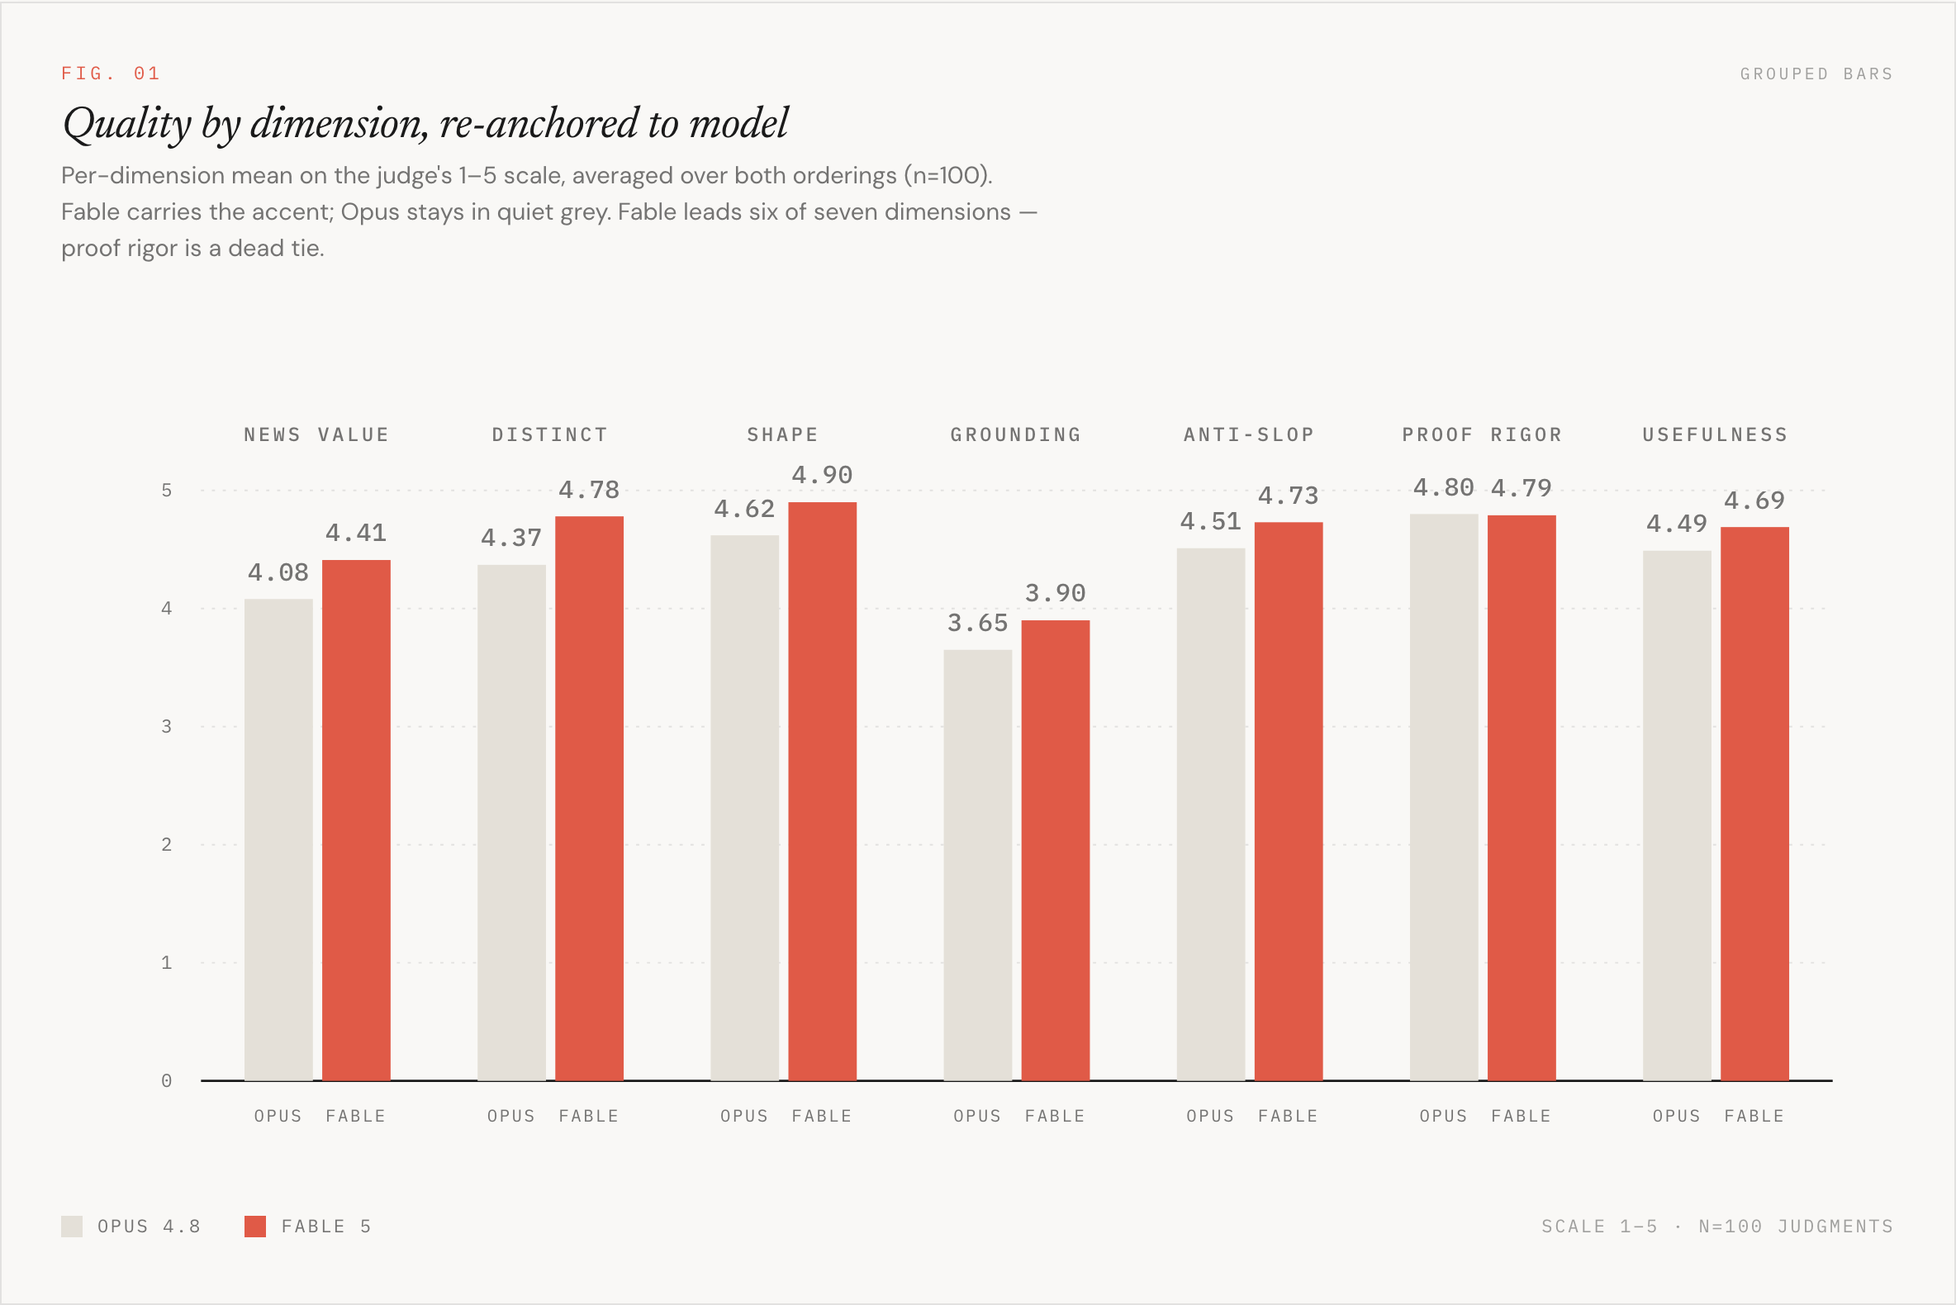
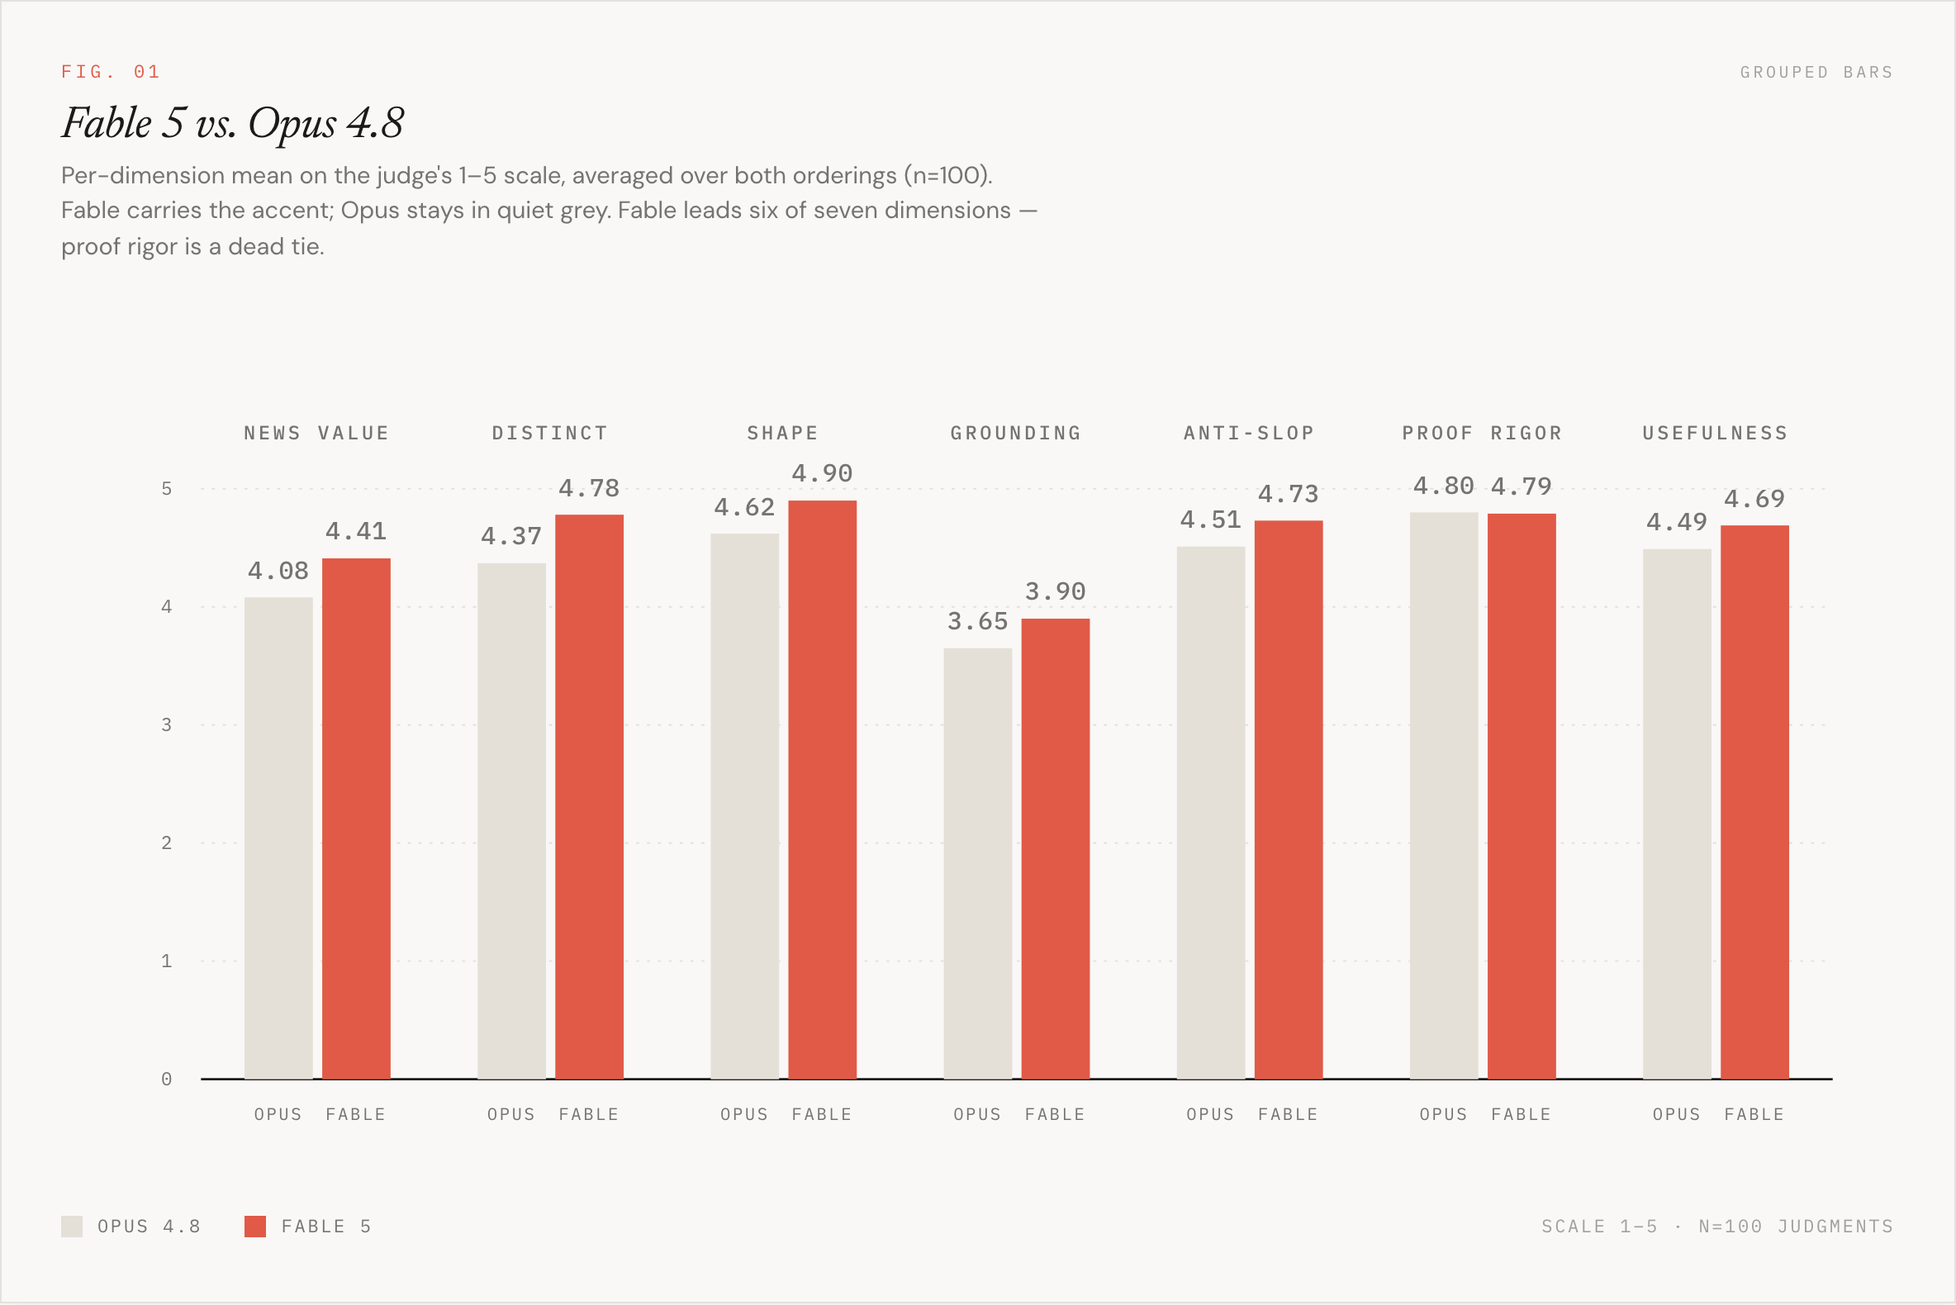
eval: reduce Fable-vs-Opus figure to the single dimension scorecard
Make the grouped-bars 'Fable 5 vs. Opus 4.8' chart the only graph (drop the
verdict donut and headline-stat sections). Also make validate.mjs tolerant of
single-figure pages: heatmap and headline-stat checks now only run when those
elements are present.

diff --git a/eval/fable-vs-opus/runs/2026-06-09-full/figures/fable-vs-opus.html b/eval/fable-vs-opus/runs/2026-06-09-full/figures/fable-vs-opus.html
@@ -3,10 +3,11 @@
 <head>
 <meta charset="UTF-8" />
 <meta name="viewport" content="width=device-width, initial-scale=1.0" />
-<title>Fable 5 vs Opus 4.8 — angle study figures</title>
+<title>Fable 5 vs Opus 4.8 — dimension scorecard</title>
 <!--
   Built with the eval design system (eval/design-system, "the chart room").
-  Data: eval/fable-vs-opus/runs/2026-06-09-full (aggregate.py + per-brand robustness).
+  Data: eval/fable-vs-opus/runs/2026-06-09-full (aggregate.py, per-dimension means).
+  Single figure: the dimension scorecard (grouped bars), Fable accent vs Opus grey.
   Validate: cd eval/design-system/scripts && node validate.mjs \
     ../../fable-vs-opus/runs/2026-06-09-full/figures/fable-vs-opus.html --out ../../fable-vs-opus/runs/2026-06-09-full/figures/png
 -->
@@ -15,212 +16,104 @@
 </head>
 <body data-accent="winner" data-grid="on" data-barstyle="solid">
 
-<div class="wrap">
+<div class="wrap" style="padding-top:48px; padding-bottom:48px;">
 
-  <!-- ===================== MASTHEAD ===================== -->
-  <header class="masthead">
-    <div class="kicker">
-      <span>VOL. 01 — THE EVAL DESK</span>
-      <span class="dim">FABLE 5 vs OPUS 4.8</span>
-      <span class="dim">GPT-5.5 BLIND JUDGE</span>
+  <div class="fig">
+    <div class="fig-head">
+      <span class="fig-tag">FIG. 01</span>
+      <span class="fig-kind">GROUPED BARS</span>
     </div>
-    <h1>fable wins the angle desk</h1>
-    <p class="dek">Both models generated story angles from the same 50 company updates with the <i>angle-generator</i> skill. GPT-5.5, in the <i>meanest-editor</i> persona, judged every pair blind in both orderings — 100 judgments, re-anchored to model identity so slot position cancels.</p>
-    <div class="imprint">
-      <span>50 BRANDS · <b>100 JUDGMENTS</b></span>
-      <span>JUDGE <b>GPT-5.5</b></span>
-      <span>ACCENT <b>#E05A47</b></span>
-    </div>
-  </header>
+    <h3>Fable 5 vs. Opus 4.8</h3>
+    <p class="cap">Per-dimension mean on the judge's 1–5 scale, averaged over both orderings (n=100). Fable carries the accent; Opus stays in quiet grey. Fable leads six of seven dimensions — proof rigor is a dead tie.</p>
 
-  <!-- ===================== 01 — DIMENSION SCORECARD ===================== -->
-  <section class="sec">
-    <div class="sec-head">
-      <div class="lhs">
-        <span class="num">01</span>
-        <h2>the dimension scorecard</h2>
-      </div>
-      <span class="sub">MEAN 1–5 · FABLE vs OPUS · 7 DIMENSIONS</span>
-    </div>
+    <div class="plot">
+      <svg class="chart" viewBox="0 0 1180 560" role="img" aria-label="Grouped bar chart of per-dimension mean scores, Fable versus Opus">
+        <!-- gridlines + y ticks (0..5) -->
+        <text class="t-tick" x="72" y="504" text-anchor="end">0</text>
+        <text class="t-tick" x="72" y="428" text-anchor="end">1</text>
+        <line class="grid-line" x1="90" y1="424" x2="1140" y2="424" />
+        <text class="t-tick" x="72" y="352" text-anchor="end">2</text>
+        <line class="grid-line" x1="90" y1="348" x2="1140" y2="348" />
+        <text class="t-tick" x="72" y="276" text-anchor="end">3</text>
+        <line class="grid-line" x1="90" y1="272" x2="1140" y2="272" />
+        <text class="t-tick" x="72" y="200" text-anchor="end">4</text>
+        <line class="grid-line" x1="90" y1="196" x2="1140" y2="196" />
+        <text class="t-tick" x="72" y="124" text-anchor="end">5</text>
+        <line class="grid-line" x1="90" y1="120" x2="1140" y2="120" />
+        <!-- baseline axis -->
+        <line class="axis" x1="90" y1="500" x2="1140" y2="500" />
 
-    <div class="fig">
-      <div class="fig-head">
-        <span class="fig-tag">FIG. 01</span>
-        <span class="fig-kind">GROUPED BARS</span>
-      </div>
-      <h3>Quality by dimension, re-anchored to model</h3>
-      <p class="cap">Per-dimension mean on the judge's 1–5 scale, averaged over both orderings (n=100). Fable carries the accent; Opus stays in quiet grey. Fable leads six of seven dimensions — proof rigor is a dead tie.</p>
+        <!-- NEWS VALUE -->
+        <text class="t-cat" x="165" y="88" text-anchor="middle">NEWS VALUE</text>
+        <rect class="bar-base"    x="118" y="189.9" width="44" height="310.1" />
+        <rect class="bar-primary" x="168" y="164.8" width="44" height="335.2" />
+        <text class="t-val" x="140" y="177.9" text-anchor="middle">4.08</text>
+        <text class="t-val" x="190" y="152.8" text-anchor="middle">4.41</text>
+        <text class="t-series" x="140" y="526" text-anchor="middle">OPUS</text>
+        <text class="t-series" x="190" y="526" text-anchor="middle">FABLE</text>
 
-      <div class="plot">
-        <svg class="chart" viewBox="0 0 1180 560" role="img" aria-label="Grouped bar chart of per-dimension mean scores, Fable versus Opus">
-          <!-- gridlines + y ticks (0..5) -->
-          <text class="t-tick" x="72" y="504" text-anchor="end">0</text>
-          <text class="t-tick" x="72" y="428" text-anchor="end">1</text>
-          <line class="grid-line" x1="90" y1="424" x2="1140" y2="424" />
-          <text class="t-tick" x="72" y="352" text-anchor="end">2</text>
-          <line class="grid-line" x1="90" y1="348" x2="1140" y2="348" />
-          <text class="t-tick" x="72" y="276" text-anchor="end">3</text>
-          <line class="grid-line" x1="90" y1="272" x2="1140" y2="272" />
-          <text class="t-tick" x="72" y="200" text-anchor="end">4</text>
-          <line class="grid-line" x1="90" y1="196" x2="1140" y2="196" />
-          <text class="t-tick" x="72" y="124" text-anchor="end">5</text>
-          <line class="grid-line" x1="90" y1="120" x2="1140" y2="120" />
-          <!-- baseline axis -->
-          <line class="axis" x1="90" y1="500" x2="1140" y2="500" />
+        <!-- DISTINCT -->
+        <text class="t-cat" x="315" y="88" text-anchor="middle">DISTINCT</text>
+        <rect class="bar-base"    x="268" y="167.9" width="44" height="332.1" />
+        <rect class="bar-primary" x="318" y="136.7" width="44" height="363.3" />
+        <text class="t-val" x="290" y="155.9" text-anchor="middle">4.37</text>
+        <text class="t-val" x="340" y="124.7" text-anchor="middle">4.78</text>
+        <text class="t-series" x="290" y="526" text-anchor="middle">OPUS</text>
+        <text class="t-series" x="340" y="526" text-anchor="middle">FABLE</text>
 
-          <!-- NEWS VALUE -->
-          <text class="t-cat" x="165" y="88" text-anchor="middle">NEWS VALUE</text>
-          <rect class="bar-base"    x="118" y="189.9" width="44" height="310.1" />
-          <rect class="bar-primary" x="168" y="164.8" width="44" height="335.2" />
-          <text class="t-val" x="140" y="177.9" text-anchor="middle">4.08</text>
-          <text class="t-val" x="190" y="152.8" text-anchor="middle">4.41</text>
-          <text class="t-series" x="140" y="526" text-anchor="middle">OPUS</text>
-          <text class="t-series" x="190" y="526" text-anchor="middle">FABLE</text>
+        <!-- SHAPE -->
+        <text class="t-cat" x="465" y="88" text-anchor="middle">SHAPE</text>
+        <rect class="bar-base"    x="418" y="148.9" width="44" height="351.1" />
+        <rect class="bar-primary" x="468" y="127.6" width="44" height="372.4" />
+        <text class="t-val" x="440" y="136.9" text-anchor="middle">4.62</text>
+        <text class="t-val" x="490" y="115.6" text-anchor="middle">4.90</text>
+        <text class="t-series" x="440" y="526" text-anchor="middle">OPUS</text>
+        <text class="t-series" x="490" y="526" text-anchor="middle">FABLE</text>
 
-          <!-- DISTINCT -->
-          <text class="t-cat" x="315" y="88" text-anchor="middle">DISTINCT</text>
-          <rect class="bar-base"    x="268" y="167.9" width="44" height="332.1" />
-          <rect class="bar-primary" x="318" y="136.7" width="44" height="363.3" />
-          <text class="t-val" x="290" y="155.9" text-anchor="middle">4.37</text>
-          <text class="t-val" x="340" y="124.7" text-anchor="middle">4.78</text>
-          <text class="t-series" x="290" y="526" text-anchor="middle">OPUS</text>
-          <text class="t-series" x="340" y="526" text-anchor="middle">FABLE</text>
+        <!-- GROUNDING -->
+        <text class="t-cat" x="615" y="88" text-anchor="middle">GROUNDING</text>
+        <rect class="bar-base"    x="568" y="222.6" width="44" height="277.4" />
+        <rect class="bar-primary" x="618" y="203.6" width="44" height="296.4" />
+        <text class="t-val" x="590" y="210.6" text-anchor="middle">3.65</text>
+        <text class="t-val" x="640" y="191.6" text-anchor="middle">3.90</text>
+        <text class="t-series" x="590" y="526" text-anchor="middle">OPUS</text>
+        <text class="t-series" x="640" y="526" text-anchor="middle">FABLE</text>
 
-          <!-- SHAPE -->
-          <text class="t-cat" x="465" y="88" text-anchor="middle">SHAPE</text>
-          <rect class="bar-base"    x="418" y="148.9" width="44" height="351.1" />
-          <rect class="bar-primary" x="468" y="127.6" width="44" height="372.4" />
-          <text class="t-val" x="440" y="136.9" text-anchor="middle">4.62</text>
-          <text class="t-val" x="490" y="115.6" text-anchor="middle">4.90</text>
-          <text class="t-series" x="440" y="526" text-anchor="middle">OPUS</text>
-          <text class="t-series" x="490" y="526" text-anchor="middle">FABLE</text>
+        <!-- ANTI-SLOP -->
+        <text class="t-cat" x="765" y="88" text-anchor="middle">ANTI-SLOP</text>
+        <rect class="bar-base"    x="718" y="157.2" width="44" height="342.8" />
+        <rect class="bar-primary" x="768" y="140.5" width="44" height="359.5" />
+        <text class="t-val" x="740" y="145.2" text-anchor="middle">4.51</text>
+        <text class="t-val" x="790" y="128.5" text-anchor="middle">4.73</text>
+        <text class="t-series" x="740" y="526" text-anchor="middle">OPUS</text>
+        <text class="t-series" x="790" y="526" text-anchor="middle">FABLE</text>
 
-          <!-- GROUNDING -->
-          <text class="t-cat" x="615" y="88" text-anchor="middle">GROUNDING</text>
-          <rect class="bar-base"    x="568" y="222.6" width="44" height="277.4" />
-          <rect class="bar-primary" x="618" y="203.6" width="44" height="296.4" />
-          <text class="t-val" x="590" y="210.6" text-anchor="middle">3.65</text>
-          <text class="t-val" x="640" y="191.6" text-anchor="middle">3.90</text>
-          <text class="t-series" x="590" y="526" text-anchor="middle">OPUS</text>
-          <text class="t-series" x="640" y="526" text-anchor="middle">FABLE</text>
+        <!-- PROOF RIGOR -->
+        <text class="t-cat" x="915" y="88" text-anchor="middle">PROOF RIGOR</text>
+        <rect class="bar-base"    x="868" y="135.2" width="44" height="364.8" />
+        <rect class="bar-primary" x="918" y="136" width="44" height="364" />
+        <text class="t-val" x="890" y="123.2" text-anchor="middle">4.80</text>
+        <text class="t-val" x="940" y="124" text-anchor="middle">4.79</text>
+        <text class="t-series" x="890" y="526" text-anchor="middle">OPUS</text>
+        <text class="t-series" x="940" y="526" text-anchor="middle">FABLE</text>
 
-          <!-- ANTI-SLOP -->
-          <text class="t-cat" x="765" y="88" text-anchor="middle">ANTI-SLOP</text>
-          <rect class="bar-base"    x="718" y="157.2" width="44" height="342.8" />
-          <rect class="bar-primary" x="768" y="140.5" width="44" height="359.5" />
-          <text class="t-val" x="740" y="145.2" text-anchor="middle">4.51</text>
-          <text class="t-val" x="790" y="128.5" text-anchor="middle">4.73</text>
-          <text class="t-series" x="740" y="526" text-anchor="middle">OPUS</text>
-          <text class="t-series" x="790" y="526" text-anchor="middle">FABLE</text>
-
-          <!-- PROOF RIGOR -->
-          <text class="t-cat" x="915" y="88" text-anchor="middle">PROOF RIGOR</text>
-          <rect class="bar-base"    x="868" y="135.2" width="44" height="364.8" />
-          <rect class="bar-primary" x="918" y="136" width="44" height="364" />
-          <text class="t-val" x="890" y="123.2" text-anchor="middle">4.80</text>
-          <text class="t-val" x="940" y="124" text-anchor="middle">4.79</text>
-          <text class="t-series" x="890" y="526" text-anchor="middle">OPUS</text>
-          <text class="t-series" x="940" y="526" text-anchor="middle">FABLE</text>
-
-          <!-- USEFULNESS -->
-          <text class="t-cat" x="1065" y="88" text-anchor="middle">USEFULNESS</text>
-          <rect class="bar-base"    x="1018" y="158.8" width="44" height="341.2" />
-          <rect class="bar-primary" x="1068" y="143.6" width="44" height="356.4" />
-          <text class="t-val" x="1040" y="146.8" text-anchor="middle">4.49</text>
-          <text class="t-val" x="1090" y="131.6" text-anchor="middle">4.69</text>
-          <text class="t-series" x="1040" y="526" text-anchor="middle">OPUS</text>
-          <text class="t-series" x="1090" y="526" text-anchor="middle">FABLE</text>
-        </svg>
-      </div>
-
-      <div class="legend">
-        <span class="item"><span class="key k-base"></span>Opus 4.8</span>
-        <span class="item"><span class="key k-primary"></span>Fable 5</span>
-        <span class="item" style="margin-left:auto; color:var(--nj-fg-4);">SCALE 1–5 · n=100 JUDGMENTS</span>
-      </div>
-    </div>
-  </section>
-
-  <!-- ===================== 02 — THE VERDICT ===================== -->
-  <section class="sec">
-    <div class="sec-head">
-      <div class="lhs">
-        <span class="num">02</span>
-        <h2>the verdict</h2>
-      </div>
-      <span class="sub">POSITION-INDEPENDENT WIN RATE</span>
+        <!-- USEFULNESS -->
+        <text class="t-cat" x="1065" y="88" text-anchor="middle">USEFULNESS</text>
+        <rect class="bar-base"    x="1018" y="158.8" width="44" height="341.2" />
+        <rect class="bar-primary" x="1068" y="143.6" width="44" height="356.4" />
+        <text class="t-val" x="1040" y="146.8" text-anchor="middle">4.49</text>
+        <text class="t-val" x="1090" y="131.6" text-anchor="middle">4.69</text>
+        <text class="t-series" x="1040" y="526" text-anchor="middle">OPUS</text>
+        <text class="t-series" x="1090" y="526" text-anchor="middle">FABLE</text>
+      </svg>
     </div>
 
-    <div class="fig">
-      <div class="fig-head">
-        <span class="fig-tag">FIG. 02</span>
-        <span class="fig-kind">RADIAL / DONUT</span>
-      </div>
-      <h3>Who won when the order didn't matter</h3>
-      <p class="cap">The judge has a strong position bias (it favored slot A in 69% of decisive calls), so the honest read is per-brand: who won in <i>both</i> orderings. On the 31 brands with an order-independent preference, Fable won 24.</p>
-      <div class="plot" style="display:flex; align-items:center; justify-content:center; gap:40px; padding:18px 0 8px; flex-wrap:wrap;">
-        <svg width="240" height="240" viewBox="0 0 280 280" role="img" aria-label="Donut showing 77 percent robust win rate">
-          <circle cx="140" cy="140" r="104" fill="none" stroke="#E4E0D8" stroke-width="30" />
-          <circle cx="140" cy="140" r="104" fill="none" stroke="var(--c-hero)" stroke-width="30"
-                  stroke-linecap="butt"
-                  stroke-dasharray="505.9 653.45"
-                  transform="rotate(-90 140 140)" />
-          <text x="140" y="150" text-anchor="middle"
-                style="font-family:var(--nj-serif); font-style:italic; font-size:74px; fill:var(--nj-fg-1);">77%</text>
-        </svg>
-        <div style="max-width:220px;">
-          <div style="font-family:var(--nj-mono); font-size:11px; letter-spacing:0.2em; text-transform:uppercase; color:var(--nj-fg-4);">ROBUST-WIN RATE</div>
-          <div style="font-family:var(--nj-sans); font-size:15px; line-height:1.5; color:var(--nj-fg-2); margin-top:10px;">Fable won both orderings on 24 of 31 decisively-judged brands. The other 19 brands split — pure position bias.</div>
-          <div style="font-family:var(--nj-mono); font-size:12px; letter-spacing:0.12em; color:var(--c-hero); margin-top:16px;">▲ FABLE 24 · OPUS 7</div>
-        </div>
-      </div>
+    <div class="legend">
+      <span class="item"><span class="key k-base"></span>Opus 4.8</span>
+      <span class="item"><span class="key k-primary"></span>Fable 5</span>
+      <span class="item" style="margin-left:auto; color:var(--nj-fg-4);">SCALE 1–5 · n=100 JUDGMENTS</span>
     </div>
-  </section>
-
-  <!-- ===================== 03 — HEADLINE FIGURES ===================== -->
-  <section class="sec">
-    <div class="sec-head">
-      <div class="lhs">
-        <span class="num">03</span>
-        <h2>headline figures</h2>
-      </div>
-      <span class="sub">BIG-STAT CALLOUTS · NO AXES</span>
-    </div>
-
-    <div class="stat-grid">
-      <div class="stat">
-        <span class="lab">ROBUST WINS · FABLE–OPUS</span>
-        <span class="fig-num"><span class="accent">24</span>–7</span>
-        <span class="rule"></span>
-        <span class="note">Brands won in both orderings, out of 50.</span>
-      </div>
-      <div class="stat">
-        <span class="lab">DIMENSIONS LED</span>
-        <span class="fig-num"><span class="accent">6</span>/7</span>
-        <span class="rule"></span>
-        <span class="note">Quality dimensions Fable led; proof rigor tied.</span>
-      </div>
-      <div class="stat">
-        <span class="lab">FABLE "PUBLISHABLE"</span>
-        <span class="fig-num"><span class="accent">78</span>%</span>
-        <span class="rule"></span>
-        <span class="note">Of 100 judgments; Opus 54%.</span>
-      </div>
-      <div class="stat">
-        <span class="lab">POSITION BIAS · SLOT-A WINS</span>
-        <span class="fig-num">0.69</span>
-        <span class="rule" style="background:var(--nj-border-strong);"></span>
-        <span class="note">0.50 = fair. Why both orderings are mandatory.</span>
-      </div>
-    </div>
-  </section>
-
-  <!-- ===================== COLOPHON ===================== -->
-  <footer class="colophon">
-    <span class="c">NEWSJACK.SH — <b>THE EVAL DESK</b></span>
-    <span class="c">FABLE 5 vs OPUS 4.8 · <b>2026-06-09</b></span>
-    <span class="c">JUDGE <b>GPT-5.5 · BLIND · BOTH ORDERINGS</b></span>
-  </footer>
+  </div>
 
 </div>
 
